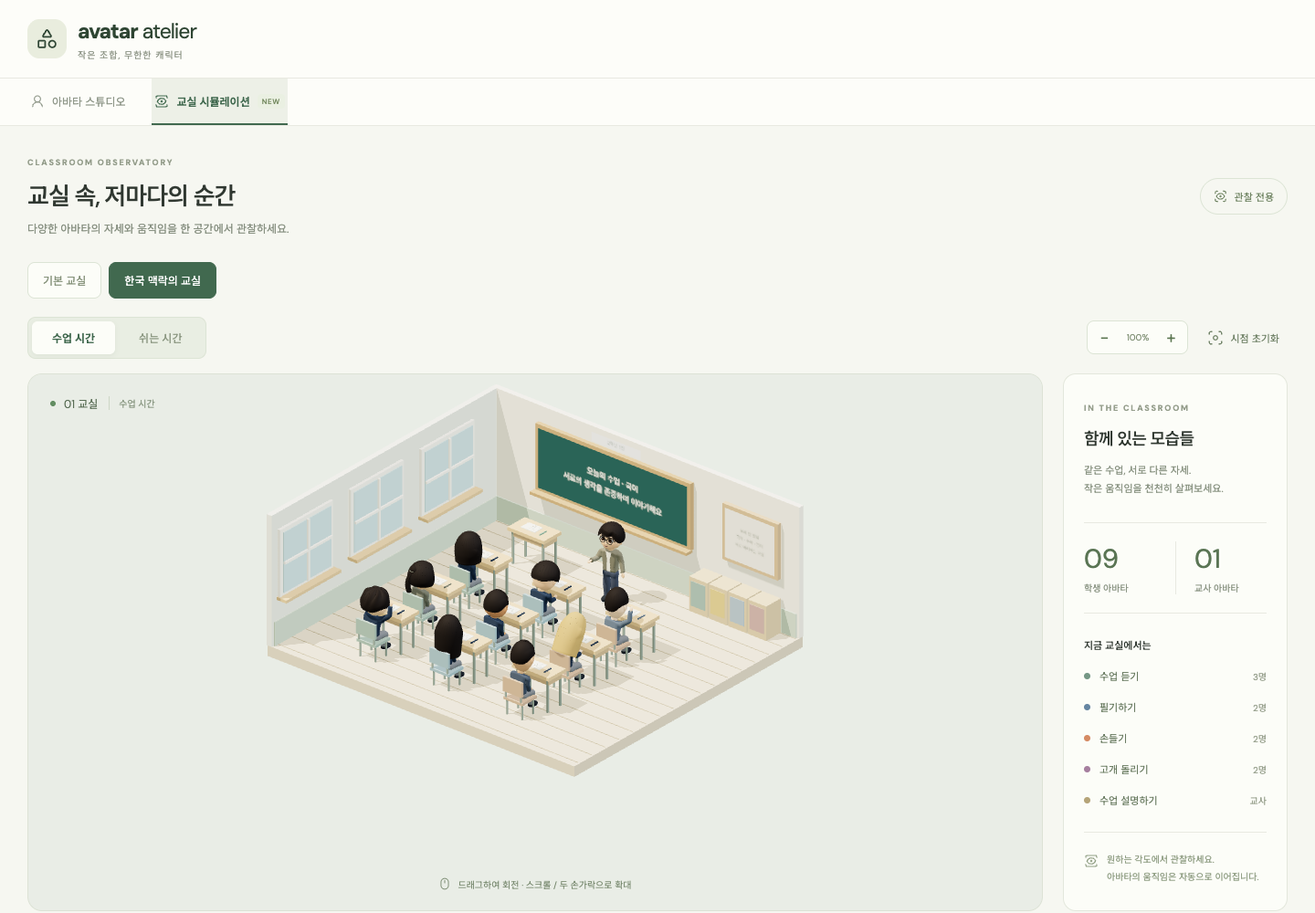
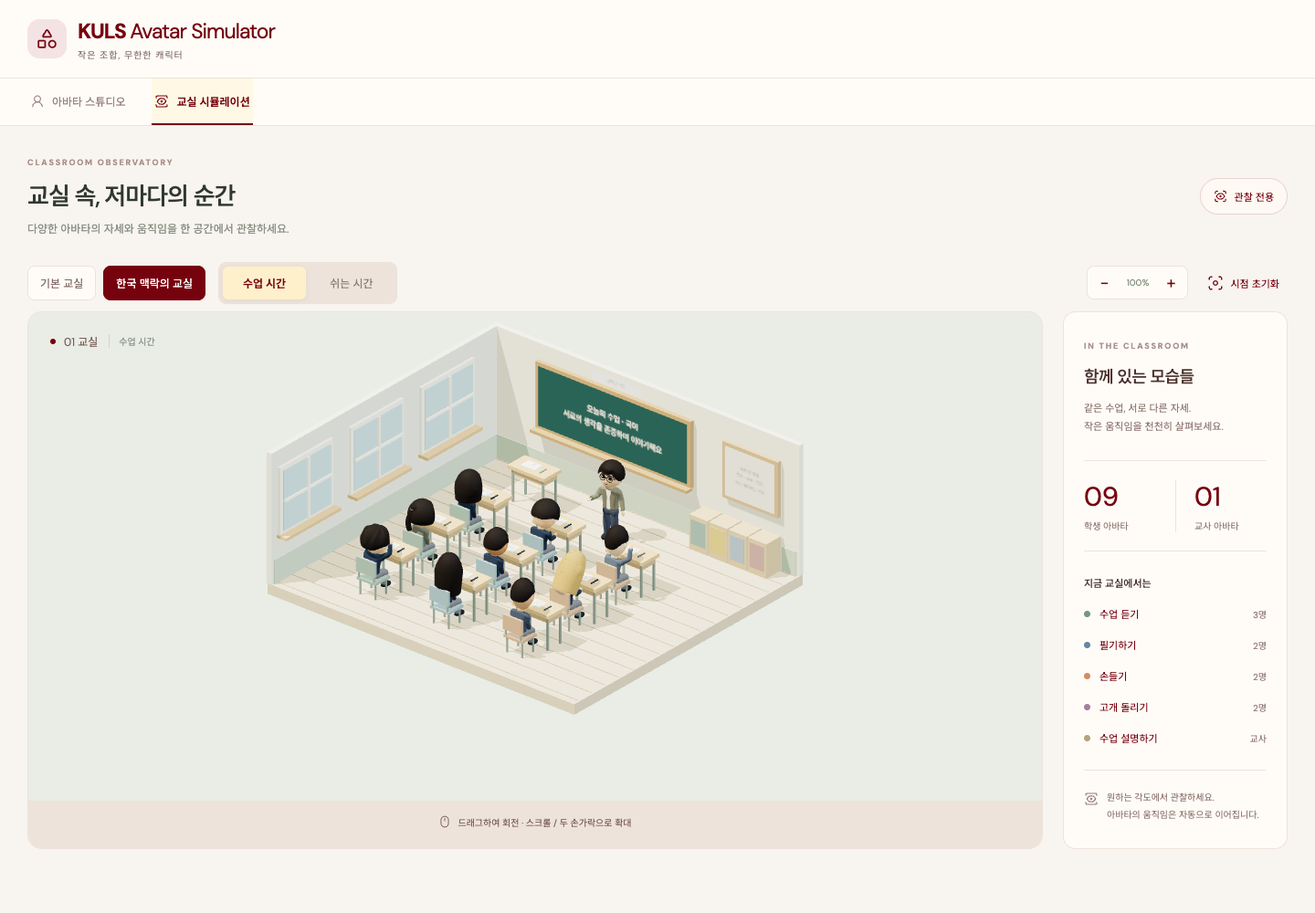
Apply KULS warm theme and refresh showcase

diff --git a/src/main.js b/src/main.js
@@ -1,7 +1,7 @@
 import * as T from 'three';
 import { OrbitControls } from 'three/addons/controls/OrbitControls.js';
-import { createIcons, Shapes, CircleHelp, FolderOpen, Download, Shuffle, ArrowUpRight, UserRound, Check, Layers3, Undo2, Redo2, Rotate3d, Bone, Box, Camera, Focus, Mouse, Activity, View, Component, Smile, Save, X, ScanFace, Scissors, PersonStanding, Shirt, Pipette, SlidersHorizontal, ScanEye, Sparkles } from 'lucide';
-const icons={Shapes,CircleHelp,FolderOpen,Download,Shuffle,ArrowUpRight,UserRound,Check,Layers3,Undo2,Redo2,Rotate3d,Bone,Box,Camera,Focus,Mouse,Activity,View,Component,Smile,Save,X,ScanFace,Scissors,PersonStanding,Shirt,Pipette,SlidersHorizontal,ScanEye,Sparkles};
+import { createIcons, Shapes, CircleHelp, FolderOpen, Download, Shuffle, ArrowUpRight, UserRound, Check, Layers3, Undo2, Redo2, Rotate3d, Bone, Box, Camera, Focus, Mouse, Activity, View, Component, Smile, Save, X, ScanFace, Scissors, PersonStanding, Shirt, Pipette, SlidersHorizontal, ScanEye, Sparkles, Mail } from 'lucide';
+const icons={Shapes,CircleHelp,FolderOpen,Download,Shuffle,ArrowUpRight,UserRound,Check,Layers3,Undo2,Redo2,Rotate3d,Bone,Box,Camera,Focus,Mouse,Activity,View,Component,Smile,Save,X,ScanFace,Scissors,PersonStanding,Shirt,Pipette,SlidersHorizontal,ScanEye,Sparkles,Mail};
 import { createAvatar } from './avatar.js';
 import { DEFAULT, PRESETS, SKINS, HAIRS, COLORS, RANGE, validateConfig, randomConfig } from './config.js';
 import { createClassroom, CLASSROOM_ACTIVITIES, BREAK_ACTIVITIES } from './classroom.js';
@@ -17,18 +17,20 @@ let tab='face', avatar, skeletonHelper, mode='idle', spin=false, wire=false, rig
 const labels={face:'얼굴',hair:'헤어',body:'체형',outfit:'의상',expression:'표정'};
 const tabIcons={face:'scan-face',hair:'scissors',body:'person-standing',outfit:'shirt',expression:'smile'};
 const html=`
-<header class="topbar"><a class="brand" href="/" aria-label="Avatar Atelier 홈"><span class="brand-icon">${icon('shapes')}</span><span>avatar<span class="brand-light"> atelier</span><small>작은 조합, 무한한 캐릭터</small></span></a><div class="top-center"><span class="status-dot"></span> 로컬 스튜디오 <span class="divider">/</span> <span id="save-status">자동 저장됨</span></div><div class="header-actions"><button class="icon-btn" id="help" title="사용 안내" aria-label="사용 안내">${icon('circle-help')}</button><button class="language-toggle" id="language-toggle" type="button" aria-label="언어를 English로 변경" title="언어를 English로 변경">EN</button><button class="quiet" id="load">${icon('folder-open')} 불러오기</button><button class="primary" id="export-open">${icon('download')} 내보내기</button></div></header>
+<header class="topbar"><a class="brand" href="/" aria-label="KULS Avatar Simulator 홈"><span class="brand-icon">${icon('shapes')}</span><span>KULS <span class="brand-light">Avatar Simulator</span><small>작은 조합, 무한한 캐릭터</small></span></a><div class="top-center"><span class="status-dot"></span> 로컬 스튜디오 <span class="divider">/</span> <span id="save-status">자동 저장됨</span></div><div class="header-actions"><button class="icon-btn" id="help" title="사용 안내" aria-label="사용 안내">${icon('circle-help')}</button><button class="language-toggle" id="language-toggle" type="button" aria-label="언어를 English로 변경" title="언어를 English로 변경">EN</button><button class="quiet" id="load">${icon('folder-open')} 불러오기</button><button class="primary" id="export-open">${icon('download')} 내보내기</button></div></header>
 <main class="workspace"><aside class="library"><div class="library-title"><span class="eyebrow">YOUR CHARACTERS</span><h2>어떤 모습으로 시작할까요?</h2><p>마음에 드는 캐릭터를 골라 바꿔보세요.</p></div><button class="random-card" id="random">${icon('shuffle')}<span>새로운 조합 만들기<small>매번 다른, 나만의 캐릭터</small></span>${icon('arrow-up-right')}</button><div class="section-line"><h3>스타터 컬렉션</h3><span>12</span></div><div class="preset-grid">${PRESETS.map((p,i)=>`<button class="preset ${i===0?'selected':''}" data-preset="${i}" title="${p.tag}"><div class="preset-img" style="--swatch:${p.shirtColor}"><img alt="${p.name} 3D 아바타" id="thumb-${i}"/><span class="preset-placeholder">${icon('user-round')}</span></div><div class="preset-name">${p.name}<span class="preset-check">${icon('check')}</span></div><small>${p.tag}</small></button>`).join('')}</div><div class="library-note">${icon('layers-3')}<p>도형 하나부터 나답게.<br><span>모든 캐릭터는 직접 편집할 수 있어요.</span></p></div></aside>
-<section class="stage-wrap"><div class="stage-heading"><div><div class="eyebrow">CHARACTER STUDIO</div><div class="name-row"><input id="avatar-name" aria-label="캐릭터 이름" maxlength="40"/><span class="pill">3D AVATAR</span></div></div><div class="undo-group"><button class="icon-btn" id="undo" title="되돌리기 (⌘Z)" aria-label="되돌리기">${icon('undo-2')}</button><button class="icon-btn" id="redo" title="다시 실행" aria-label="다시 실행">${icon('redo-2')}</button></div></div><div id="viewport"><div class="view-tabs"><button data-view="full" class="active">전신</button><button data-view="face">얼굴</button></div><div class="stage-tag"><span class="status-dot"></span> 실시간 미리보기</div><div class="stage-tools"><button class="icon-btn" id="rotate" title="자동 회전" aria-label="자동 회전">${icon('rotate-3d')}</button><button class="icon-btn" id="skeleton" title="뼈대 보기" aria-label="뼈대 보기">${icon('bone')}</button><button class="icon-btn" id="wire" title="와이어프레임" aria-label="와이어프레임">${icon('box')}</button><span></span><button class="icon-btn" id="capture" title="PNG 저장" aria-label="PNG 저장">${icon('camera')}</button><button class="icon-btn" id="reset-camera" title="시점 초기화" aria-label="시점 초기화">${icon('focus')}</button></div><div class="orbit-hint">${icon('mouse')} 드래그하여 회전 <b>·</b> 스크롤하여 확대</div><div class="stage-bottom"><div class="pose-select">${icon('activity')}<select id="pose" aria-label="포즈와 애니메이션"><option value="idle">편안하게 · Idle</option><option value="relaxed">기본 자세</option><option value="walk">걷기 · Walk</option><option value="sit">앉기</option><option value="shy">고개 숙이기</option><option value="look">두리번</option><option value="talk">이야기</option><option value="cross">팔짱</option><option value="tpose">T 포즈</option></select></div><button class="quiet" id="side-view">${icon('view')} 옆모습</button></div></div><footer class="stage-footer"><span>${icon('component')} <span id="mesh-count">—</span> 파츠</span><span>${icon('bone')} <span id="bone-count">—</span> 본</span><span>${icon('smile')} 6 Shape Keys</span><span class="ready-label"><span class="status-dot"></span> Blender · FBX</span></footer></section>
+<section class="stage-wrap"><div class="stage-heading"><div><div class="eyebrow">CHARACTER STUDIO</div><div class="name-row"><input id="avatar-name" aria-label="캐릭터 이름" maxlength="40"/><span class="pill">3D AVATAR</span></div></div><div class="undo-group"><button class="icon-btn" id="undo" title="되돌리기 (⌘Z)" aria-label="되돌리기">${icon('undo-2')}</button><button class="icon-btn" id="redo" title="다시 실행" aria-label="다시 실행">${icon('redo-2')}</button></div></div><div id="viewport"><div class="view-tabs"><button data-view="full" class="active">전신</button><button data-view="face">얼굴</button></div><div class="stage-tag"><span class="status-dot"></span> 실시간 미리보기</div><div class="stage-tools"><button class="icon-btn" id="rotate" title="자동 회전" aria-label="자동 회전">${icon('rotate-3d')}</button><button class="icon-btn" id="skeleton" title="뼈대 보기" aria-label="뼈대 보기">${icon('bone')}</button><button class="icon-btn" id="wire" title="와이어프레임">${icon('box')}</button><span></span><button class="icon-btn" id="capture" title="PNG 저장" aria-label="PNG 저장">${icon('camera')}</button><button class="icon-btn" id="reset-camera" title="시점 초기화" aria-label="시점 초기화">${icon('focus')}</button></div><div class="orbit-hint">${icon('mouse')} 드래그하여 회전 <b>·</b> 스크롤하여 확대</div><div class="stage-bottom"><div class="pose-select">${icon('activity')}<select id="pose" aria-label="포즈와 애니메이션"><option value="idle">편안하게 · Idle</option><option value="relaxed">기본 자세</option><option value="walk">걷기 · Walk</option><option value="sit">앉기</option><option value="shy">고개 숙이기</option><option value="look">두리번</option><option value="talk">이야기</option><option value="cross">팔짱</option><option value="tpose">T 포즈</option></select></div><button class="quiet" id="side-view">${icon('view')} 옆모습</button></div></div><footer class="stage-footer"><span>${icon('component')} <span id="mesh-count">—</span> 파츠</span><span>${icon('bone')} <span id="bone-count">—</span> 본</span><span>${icon('smile')} 6 Shape Keys</span><span class="creator">${icon('mail')} <span>제작은: 엄태상 (Taesang Eom)</span> · <a href="mailto:sendmethere@naver.com">sendmethere@naver.com</a></span></footer></section>
 <aside class="editor"><div class="editor-heading"><span class="eyebrow">MAKE IT YOURS</span><h2>작은 차이가, 나다움</h2></div><nav class="editor-tabs">${Object.entries(labels).map(([k,l])=>`<button data-tab="${k}" class="${k===tab?'active':''}">${icon(tabIcons[k])}<span>${l}</span></button>`).join('')}</nav><div id="controls"></div><div class="editor-bottom">${icon('save')} 이 브라우저에 자동으로 저장됩니다</div></aside></main>
 <div id="toast" role="status" aria-live="polite"></div><input id="file-input" type="file" accept=".json,application/json" hidden/>
 <dialog id="export-dialog"><div class="dialog-header"><div><span class="eyebrow">TAKE YOUR CHARACTER</span><h2>다음 무대로 데려가세요</h2></div><button class="icon-btn dialog-close" aria-label="닫기">${icon('x')}</button></div><p>현재 얼굴과 의상, 뼈대, 표정을 함께 저장합니다.</p><div class="export-options"><button data-format="blend"><span class="format-icon orange">B</span><span><b>Blender 프로젝트</b><small>.blend · 메시, Armature, Shape Keys 편집</small></span>${icon('download')}</button><button data-format="fbx"><span class="format-icon violet">U</span><span><b>Unity용 FBX</b><small>.fbx · 휴머노이드 본과 Idle / Walk 포함</small></span>${icon('download')}</button><button data-format="glb"><span class="format-icon green">3D</span><span><b>범용 3D 모델</b><small>.glb · 재질, 스킨, 표정, 애니메이션</small></span>${icon('download')}</button><button data-format="json"><span class="format-icon beige">{ }</span><span><b>커스터마이징 설정</b><small>.json · 이 스튜디오에서 다시 편집</small></span>${icon('download')}</button></div><div id="export-status" role="status"></div><p class="dialog-note">GLB / FBX는 T 포즈를 기준으로 저장합니다. Blender / FBX 변환은 이 컴퓨터의 Blender를 사용합니다. Unity에서 Rig → Humanoid 설정이 필요합니다.</p></dialog>
 <dialog id="help-dialog"><div class="dialog-header"><h2>나만의 아바타, 처음부터 끝까지</h2><button class="icon-btn dialog-close" aria-label="닫기">${icon('x')}</button></div><ol><li><b>조합하기</b><p>스타터를 고르거나 새로운 조합을 만드세요. 피부색과 얼굴형, 체형, 나이, 머리, 옷을 독립적으로 조절할 수 있습니다.</p></li><li><b>표정과 움직임</b><p>표정 탭에서 6가지 감정과 시선을 조절하세요. 아래의 포즈 메뉴에서 걷기와 T 포즈를 확인하고, 뼈대 버튼으로 리깅을 볼 수 있습니다.</p></li><li><b>Blender에서 편집</b><p>.blend 파일을 열어 파츠를 선택하고 Edit Mode에서 수정하세요. Armature의 Pose Mode로 포즈를 바꾸고, 눈·입·눈썹 메시의 Shape Keys로 표정을 조절합니다.</p></li><li><b>Unity에서 사용</b><p>FBX를 Assets로 가져온 후 Rig → Humanoid → Create From This Model → Apply를 선택하세요. Configure에서 매핑과 T 포즈를 확인합니다. 손은 단순화되어 손가락 본은 없습니다.</p></li></ol><p class="dialog-note">현재 생성은 기본 도형을 조합하는 로컬 절차적 생성 방식입니다. 외부 생성형 AI나 사진 분석은 연결하지 않았습니다. 얼굴의 6개 Shape Key는 웃음·정색·슬픔·화남·당황·눈 깜빡임이며 보통 표정은 기본 형태입니다.</p></dialog>`;
 $('#app').innerHTML=html;
+$('#wire').setAttribute('aria-label','와이어프레임');
 let pageMode='studio', classroom=null, classroomLoading=null, classroomOrbit=null, classroomScenario='lesson';
 let classroomContext='korean';
 const reducedMotion=matchMedia('(prefers-reduced-motion: reduce)');
 $('.topbar').insertAdjacentHTML('afterend', `<nav class="workspace-tabs" role="tablist" aria-label="작업 공간"><button id="studio-tab" role="tab" aria-selected="true" aria-controls="studio-panel" data-workspace="studio">${icon('user-round')} 아바타 스튜디오</button><button id="classroom-tab" role="tab" aria-selected="false" aria-controls="classroom-panel" tabindex="-1" data-workspace="classroom">${icon('view')} 교실 시뮬레이션<span class="tab-new">NEW</span></button></nav>`);
+$('.tab-new')?.remove();
 $('.workspace').id='studio-panel';
 $('.workspace').setAttribute('role','tabpanel');
 $('.workspace').setAttribute('aria-labelledby','studio-tab');
@@ -39,11 +41,16 @@ $('#toast').insertAdjacentHTML('beforebegin', `<main id="classroom-panel" class=
   <div class="classroom-layout"><section class="classroom-scene" aria-label="3D 교실 관찰 화면"><div class="classroom-scene-label"><span class="status-dot"></span> 01 교실 <span id="classroom-scenario-label">수업 시간</span></div><div id="classroom-viewport"><div id="classroom-loading" role="status" aria-live="polite">교실을 준비하고 있습니다…</div></div><div class="classroom-caption">${icon('mouse')} 드래그하여 회전 · 스크롤 / 두 손가락으로 확대</div></section>
   <aside class="classroom-info"><span class="eyebrow">IN THE CLASSROOM</span><h2>함께 있는 모습들</h2><p id="classroom-description">같은 수업, 서로 다른 자세.<br>작은 움직임을 천천히 살펴보세요.</p><div class="classroom-counts"><div><strong>09</strong><span>학생 아바타</span></div><div><strong>01</strong><span>교사 아바타</span></div></div><h3>지금 교실에서는</h3><ul class="classroom-activities">${CLASSROOM_ACTIVITIES.map(([label,count,color])=>`<li><span class="activity-dot" style="--activity-color:${color}"></span><span>${label}</span><small>${count}명</small></li>`).join('')}<li><span class="activity-dot" style="--activity-color:#b5a478"></span><span>수업 설명하기</span><small>교사</small></li></ul><div class="classroom-note">${icon('view')}<p>원하는 각도에서 관찰하세요.<br>아바타의 움직임은 자동으로 이어집니다.</p></div></aside></div>
 </main>`);
+const classroomToolbar=$('.classroom-toolbar'), classroomMenuGroup=document.createElement('div'), classroomContextDescription=$('#classroom-context-description');
+classroomMenuGroup.className='classroom-menu-group';
+classroomMenuGroup.append($('.classroom-contexts'),$('.classroom-scenarios'));
+classroomToolbar.prepend(classroomMenuGroup);
+classroomToolbar.after(classroomContextDescription);
 const refreshIcons=()=>createIcons({icons,attrs:{'stroke-width':1.7}});
 refreshIcons();
 function applyLanguage(){
  document.documentElement.lang=locale;
- document.documentElement.querySelector('title').textContent=locale==='en'?'Avatar Atelier · Your 3D character':'Avatar Atelier · 나만의 3D 캐릭터';
+ document.documentElement.querySelector('title').textContent=locale==='en'?'KULS Avatar Simulator · Your 3D character':'KULS Avatar Simulator · 나만의 3D 캐릭터';
  localize($('#app'),locale);localize($('.workspace-tabs'),locale);localize($('#classroom-panel'),locale);
  classroom?.setLanguage(locale);
  const button=$('#language-toggle');button.textContent=locale==='en'?'한국어':'EN';
@@ -178,7 +185,7 @@ $('#export-open').onclick=async()=>{$('#export-dialog').showModal();$('#export-s
 async function exportGLB(){
  // Use an isolated T-pose instance so export never mutates the visible avatar or current pose.
  const { GLTFExporter } = await import('three/addons/exporters/GLTFExporter.js');
- const a=createAvatar(config,{animations:true,tpose:true});a.pose('tpose');a.setExpression(config.expression,config.intensity,0);a.setGaze(config.gazeX,config.gazeY);a.group.userData={generator:'Avatar Atelier',config:{...config},license:'User-created procedural asset'};
+ const a=createAvatar(config,{animations:true,tpose:true});a.pose('tpose');a.setExpression(config.expression,config.intensity,0);a.setGaze(config.gazeX,config.gazeY);a.group.userData={generator:'KULS Avatar Simulator',config:{...config},license:'User-created procedural asset'};
  const assetScene=new T.Scene();assetScene.name='Avatar';assetScene.userData=a.group.userData;for(const child of [...a.group.children])assetScene.add(child);assetScene.updateMatrixWorld(true);
  try{return await new GLTFExporter().parseAsync(assetScene,{binary:true,animations:a.clips,onlyVisible:true});}finally{a.dispose();}
 }

diff --git a/public/showcase.html b/public/showcase.html
@@ -3,26 +3,26 @@
   <head>
     <meta charset="UTF-8" />
     <meta name="viewport" content="width=device-width, initial-scale=1.0" />
-    <title>Avatar Atelier · 소개</title>
+    <title>KULS Avatar Simulator · 소개</title>
     <style>
       @import url('https://fonts.googleapis.com/css2?family=DM+Sans:wght@400;500;600;700&family=Noto+Sans+KR:wght@400;500;600;700&display=swap');
-      :root { font-family: 'DM Sans', 'Noto Sans KR', sans-serif; color: #354436; background: #f5f6f0; }
+      :root { font-family: 'DM Sans', 'Noto Sans KR', sans-serif; color: #4b322d; background: #F8F4F0; }
       * { box-sizing: border-box; } body { margin: 0; } a { color: inherit; }
-      .hero { padding: 86px 28px 70px; text-align: center; background: radial-gradient(ellipse at 50% 10%, #e2ecdd 0, #f8f9f5 57%, #f5f6f0 100%); }
-      .mark { display: inline-grid; place-items: center; width: 48px; height: 48px; border-radius: 15px; background: #dfe9d9; color: #41694f; font-size: 24px; }
+      .hero { padding: 86px 28px 70px; text-align: center; background: radial-gradient(ellipse at 50% 10%, #EDE3DA 0, #FFF9F1 57%, #F8F4F0 100%); }
+      .mark { display: inline-grid; place-items: center; width: 48px; height: 48px; border-radius: 15px; background: #FFF0CC; color: #76020E; font-size: 24px; }
       h1 { margin: 18px 0 12px; font-size: clamp(34px, 6vw, 58px); line-height: 1.08; letter-spacing: -2.5px; }
       .hero p { max-width: 570px; margin: auto; color: #71806e; line-height: 1.8; font-size: 16px; }
       .actions { display: flex; justify-content: center; gap: 10px; margin-top: 28px; flex-wrap: wrap; }
       .button { display: inline-flex; align-items: center; min-height: 42px; padding: 0 17px; border: 1px solid #cedbca; border-radius: 8px; text-decoration: none; font-size: 13px; font-weight: 600; background: #fff; }
-      .button.primary { color: #fff; background: #41694f; border-color: #41694f; }
+      .button.primary { color: #fff; background: #76020E; border-color: #76020E; }
       main { width: min(1120px, calc(100% - 40px)); margin: 0 auto; padding: 55px 0 80px; }
       .intro { display: grid; grid-template-columns: .8fr 1.2fr; gap: 34px; align-items: start; margin-bottom: 56px; }
       h2 { margin: 0 0 14px; font-size: 27px; letter-spacing: -1px; } .intro p { color: #71806e; line-height: 1.8; margin: 0; }
       .features { display: grid; grid-template-columns: repeat(3, 1fr); gap: 12px; }
-      .feature { min-height: 125px; padding: 19px; background: #fbfcf8; border: 1px solid #e1e6dd; border-radius: 12px; }
+      .feature { min-height: 125px; padding: 19px; background: #FFFCF8; border: 1px solid #EDE3DA; border-radius: 12px; }
       .feature span { font-size: 21px; } .feature h3 { margin: 11px 0 7px; font-size: 14px; } .feature p { color: #849080; line-height: 1.55; font-size: 11px; margin: 0; }
       .gallery { display: grid; grid-template-columns: repeat(2, 1fr); gap: 22px; }
-      figure { margin: 0; overflow: hidden; border: 1px solid #dce3d8; border-radius: 14px; background: #fff; box-shadow: 0 10px 30px #344b3310; }
+      figure { margin: 0; overflow: hidden; border: 1px solid #EDE3DA; border-radius: 14px; background: #fff; box-shadow: 0 10px 30px #60352a10; }
       figure:first-child { grid-column: 1 / -1; } img { display: block; width: 100%; height: auto; } figcaption { padding: 15px 17px 17px; color: #6e7d6b; font-size: 12px; } figcaption strong { display: block; color: #3e503e; margin-bottom: 5px; font-size: 14px; }
       footer { border-top: 1px solid #dde4d9; padding: 25px; text-align: center; color: #839080; font-size: 11px; }
       @media (max-width: 720px) { .hero { padding: 62px 20px 52px; } .intro, .gallery { grid-template-columns: 1fr; } .features { grid-template-columns: 1fr; } figure:first-child { grid-column: auto; } main { width: min(100% - 28px, 1120px); padding-top: 38px; } }
@@ -31,7 +31,7 @@
   <body>
     <header class="hero">
       <div class="mark">✦</div>
-      <h1>Avatar Atelier</h1>
+      <h1>KULS Avatar Simulator</h1>
       <p>얼굴, 헤어, 체형, 의상을 조합해 나만의 3D 캐릭터를 만들고, 교실 속 여러 학생의 순간도 관찰해 보세요.</p>
       <div class="actions"><a class="button primary" href="/">스튜디오 열기</a><a class="button" href="https://github.com/sendmethere/KULS-avatar-generator">GitHub 저장소</a></div>
     </header>
@@ -44,12 +44,13 @@
           <article class="feature"><span>▦</span><h3>교실 시뮬레이션</h3><p>수업과 쉬는 시간 장면을 관찰 전용으로 살펴봅니다.</p></article>
         </div>
       </section>
-      <section class="gallery" aria-label="Avatar Atelier 화면 예시">
+      <section class="gallery" aria-label="KULS Avatar Simulator 화면 예시">
         <figure><img src="/showcase/studio.png" alt="Avatar Studio에서 Minjun 캐릭터를 편집하는 화면"><figcaption><strong>Avatar Studio</strong>스타터 캐릭터를 고르고 얼굴, 헤어, 의상, 표정을 이어서 편집합니다.</figcaption></figure>
         <figure><img src="/showcase/classroom-lesson.png" alt="수업 시간의 한국 교실 시뮬레이션 화면"><figcaption><strong>교실 · 수업 시간</strong>앉아 듣고, 필기하고, 손을 드는 다양한 자세를 관찰합니다.</figcaption></figure>
         <figure><img src="/showcase/classroom-break-en.png" alt="영어로 전환된 쉬는 시간 교실 시뮬레이션 화면"><figcaption><strong>교실 · 쉬는 시간</strong>대화하고 걷는 모습을 살펴보고, 화면 언어는 영어로도 전환할 수 있습니다.</figcaption></figure>
+        <figure><img src="/showcase/classroom-break-closeup.png" alt="쉬는 시간에 이야기하고 이동하는 학생들을 가까이에서 본 교실 장면"><figcaption><strong>학생들의 쉬는 시간</strong>이야기하는 학생과 통로를 걷는 학생을 가까운 시점에서 관찰합니다.</figcaption></figure>
       </section>
     </main>
-    <footer>Avatar Atelier · Local procedural 3D character studio</footer>
+    <footer>KULS Avatar Simulator · 제작은: 엄태상 (Taesang Eom) · ✉ <a href="mailto:sendmethere@naver.com">sendmethere@naver.com</a></footer>
   </body>
 </html>

diff --git a/src/classroom.css b/src/classroom.css
@@ -74,6 +74,94 @@
   .topbar { gap: 9px; }
   .language-toggle { min-width: 34px; height: 29px; padding: 0 6px; font-size: 9px; }
 }
+
+/* KULS brand accent */
+:root { --green: #76020E; --line: #EDE3DA; background: #F8F4F0; }
+body { background: #F8F4F0; }
+.topbar, .workspace-tabs, .library, .editor { background: #FFFCF8; }
+.stage-wrap { background: #F8F4F0; }
+#viewport { background: radial-gradient(ellipse at 50% 48%, #FFFDF7 0, #F8F4F0 63%, #EDE3DA 100%); }
+.random-card { background: #FFF0CC; border-color: #E6D59E; color: #6D281F; }
+.random-card small { color: #8A6550; }
+.language-toggle { background: #FFF8E4; border-color: #E6D59E; color: #76020E; }
+.language-toggle:hover { background: #FFF0CC; color: #57000A; }
+.workspace-tabs > button[aria-selected=true] { background: #FFF8E4; }
+.classroom-panel { background: #F8F4F0; }
+.classroom-scene { border-color: #EDE3DA; }
+.classroom-info { background: #FFFCF8; border-color: #EDE3DA; }
+
+/* Replace the original sage UI surfaces with the KULS warm palette. */
+button:hover { background: #F4E8E5; }
+button:focus-visible, a:focus-visible, input:focus-visible, select:focus-visible { outline-color: #76020E; }
+.topbar { border-color: #EDE3DA; }
+.brand small, .top-center, .library-title p, .preset > small, .library-note, .editor-bottom, .stage-footer { color: #8C7773; }
+.divider, .eyebrow { color: #AA918C; }
+.random-card:hover { background: #FFE7A8; }
+.preset { background: #FFF9F3; }
+.preset:hover { background: #F7E9E5; }
+.preset.selected { border-color: #A54A52; background: #FFF0F1; }
+.section-line > span, .slider-control output { background: #F3E7E2; color: #855C57; }
+.stage-heading .undo-group, .view-tabs, .stage-tools, .pose-select { border-color: #EDE3DA; background-color: #FFFCF8; }
+.view-tabs button.active { color: #76020E; }
+.icon-btn { color: #8A6E69; }
+.icon-btn.active { color: #76020E; background: #F5E4E6; }
+.editor-tabs { border-color: #EDE3DA; }
+.editor-tabs button { color: #9B8580; }
+.control-block { border-color: #F0E5DF; }
+.choices button { border-color: #EDE3DA; background: #FFFCF8; color: #876F6A; }
+.choices button.active { border-color: #B85B64; background: #FFF0F1; color: #76020E; }
+.swatch { box-shadow: 0 0 0 1px #E7D8D2; }
+.swatch.active { box-shadow: 0 0 0 2px #76020E; }
+input[type=range] { background: linear-gradient(to right, #9D303B 0%, #9D303B var(--percent), #EDE3DA var(--percent), #EDE3DA 100%); }
+input[type=range]::-webkit-slider-thumb { border-color: #9D303B; }
+input[type=range]::-moz-range-thumb { border-color: #9D303B; }
+.tip { background: #FFF0CC; color: #795F45; }
+.wide-button { border-color: #E7D2D0; color: #76020E; background: #FFFCF8; }
+dialog { border-color: #EDE3DA; background: #FFFCF8; color: #4B322D; }
+.editor-bottom, .stage-footer { border-color: #EDE3DA; background: #FFF9F3; }
+.workspace-tabs { border-color: #EDE3DA; }
+.workspace-tabs > button { color: #9A837E; }
+.classroom-contexts button, .classroom-zoom { border-color: #EDE3DA; background: #FFFCF8; color: #806964; }
+.classroom-contexts button[aria-pressed=true] { background: #76020E; border-color: #76020E; }
+.classroom-scenarios { border-color: #EDE3DA; background: #EDE3DA; }
+.classroom-scenarios button { color: #8C7773; }
+.classroom-scenarios button[aria-pressed=true] { color: #76020E; background: #FFF0CC; }
+.classroom-zoom button, #classroom-reset { color: #76020E; }
+.classroom-scene, #classroom-loading { background: #EDE3DA; }
+.classroom-scene-label, .classroom-caption { color: #795F58; }
+.observation-badge { border-color: #E7D2D0; color: #76020E; background: #FFF9F3; }
+.classroom-info h2, .classroom-info h3 { color: #4B322D; }
+.classroom-info > p, .classroom-counts span, .classroom-note, .classroom-activities small { color: #947C76; }
+.classroom-counts strong, .classroom-activities li { color: #76020E; }
+.pill { border-color: #E6D59E; color: #8C7773; background: #FFF9F3; }
+.view-tabs button, .stage-tag, .orbit-hint, .stage-bottom > .quiet, .pose-select, .slider-control > span, .custom-color, .editor-bottom, .stage-footer, .library-note, .tip, .tip p { color: #8C7773; }
+.view-tabs button.active { color: #76020E; }
+.stage-tools > span { border-color: #EDE3DA; }
+.pose-select { background: #FFFCF8; border-color: #EDE3DA; }
+.pose-select select { color: #6E5752; }
+.stage-footer .creator { color: #76020E; }
+::-webkit-scrollbar-thumb { background: #E1D2C9; }
+
+/* Keep classroom choices in one compact toolbar row. */
+.classroom-toolbar { min-height: 46px; margin-bottom: 8px; }
+.classroom-menu-group { display: flex; align-items: center; gap: 14px; min-width: 0; }
+.classroom-menu-group .classroom-contexts { flex-wrap: nowrap; }
+.classroom-menu-group .classroom-contexts button { white-space: nowrap; padding: 9px 13px; }
+#classroom-context-description { margin: 0 0 16px; }
+#classroom-context-description:empty { display: none; }
+@media (max-width: 850px) { .classroom-menu-group { gap: 10px; } }
+@media (max-width: 600px) { .classroom-toolbar { align-items: flex-start; flex-direction: column; } .classroom-menu-group { width: 100%; justify-content: space-between; } .classroom-camera-tools { align-self: flex-end; } .classroom-menu-group .classroom-contexts button { padding: 8px 10px; } }
+.brand { color: #76020E; }
+.brand-icon { background: #f4e3e5; color: #76020E; }
+.status-dot { background: #76020E; }
+.primary:hover { background: #57000A; }
+.workspace-tabs > button[aria-selected=true] { color: #76020E; border-color: #76020E; }
+.editor-tabs button.active { color: #76020E; border-color: #76020E; background: #f8edef; }
+.stage-footer .creator { margin-left: auto; color: #76020E; }
+.stage-footer .creator a { color: inherit; text-decoration: none; font-weight: 600; }
+.stage-footer .creator a:hover { text-decoration: underline; }
+@media (max-width: 1150px) { .stage-footer .creator { font-size: 8px; } }
+@media (max-width: 600px) { .stage-footer { height: auto; min-height: 42px; padding: 6px 12px; flex-wrap: wrap; } .stage-footer .creator { width: 100%; margin-left: 0; justify-content: center; } }
 @media (max-width: 850px) {
   .workspace { height: calc(100dvh - 122px); }
   .classroom-layout { grid-template-columns: 1fr; }

diff --git a/src/i18n.js b/src/i18n.js
@@ -1,5 +1,6 @@
 const english = {
   '작은 조합, 무한한 캐릭터': 'Small choices, infinite characters', '로컬 스튜디오': 'Local studio', '자동 저장됨': 'Saved automatically',
+  '제작은: 엄태상 (Taesang Eom)': 'Created by: Taesang Eom',
   '사용 안내': 'Help', '불러오기': 'Load', '내보내기': 'Export', '닫기': 'Close', '아바타 스튜디오': 'Avatar Studio', '교실 시뮬레이션': 'Classroom Simulation',
   '어떤 모습으로 시작할까요?': 'Who would you like to create?', '마음에 드는 캐릭터를 골라 바꿔보세요.': 'Choose a character, then make it your own.',
   '새로운 조합 만들기': 'Create a new look', '매번 다른, 나만의 캐릭터': 'A different character every time', '스타터 컬렉션': 'Starter collection',

diff --git a/index.html b/index.html
@@ -1,1 +1,1 @@
-<!doctype html><html lang="ko"><head><meta charset="UTF-8"/><meta name="viewport" content="width=device-width, initial-scale=1.0"/><meta name="theme-color" content="#f6f5f1"/><title>Avatar Atelier · 나만의 3D 캐릭터</title></head><body><div id="app"></div><script type="module" src="/src/main.js"></script></body></html>
+<!doctype html><html lang="ko"><head><meta charset="UTF-8"/><meta name="viewport" content="width=device-width, initial-scale=1.0"/><meta name="theme-color" content="#76020E"/><title>KULS Avatar Simulator · 나만의 3D 캐릭터</title></head><body><div id="app"></div><script type="module" src="/src/main.js"></script></body></html>

diff --git a/README.md b/README.md
@@ -1,4 +1,4 @@
-# KULS Avatar Generator
+# KULS Avatar Simulator
 
 기본 도형을 조합하는 로컬 3D 아바타 제작 스튜디오입니다. 웹에서 조절한 모델을 Blender에서 편집하고 Unity로 옮길 수 있습니다. 생성은 **절차적 도형 조합**이며, 외부 생성형 AI API·사진 분석·텍스트 모델 생성은 연결하지 않았습니다.
 
@@ -79,7 +79,7 @@ npm start
 
 소스를 수정하며 실행하려면 `npm run dev`를 사용합니다. `.blend`·`.fbx`·`.glb`와 설정 JSON은 앱의 내보내기로 저장할 수 있습니다. `examples/`에는 편집 가능한 샘플 모델과 설정이 포함되어 있습니다.
 
-![현재 아바타 예시](examples/refinements.png)
+![KULS Avatar Simulator 스튜디오 화면](public/showcase/studio.png)
 
 ## 커스터마이징
 
